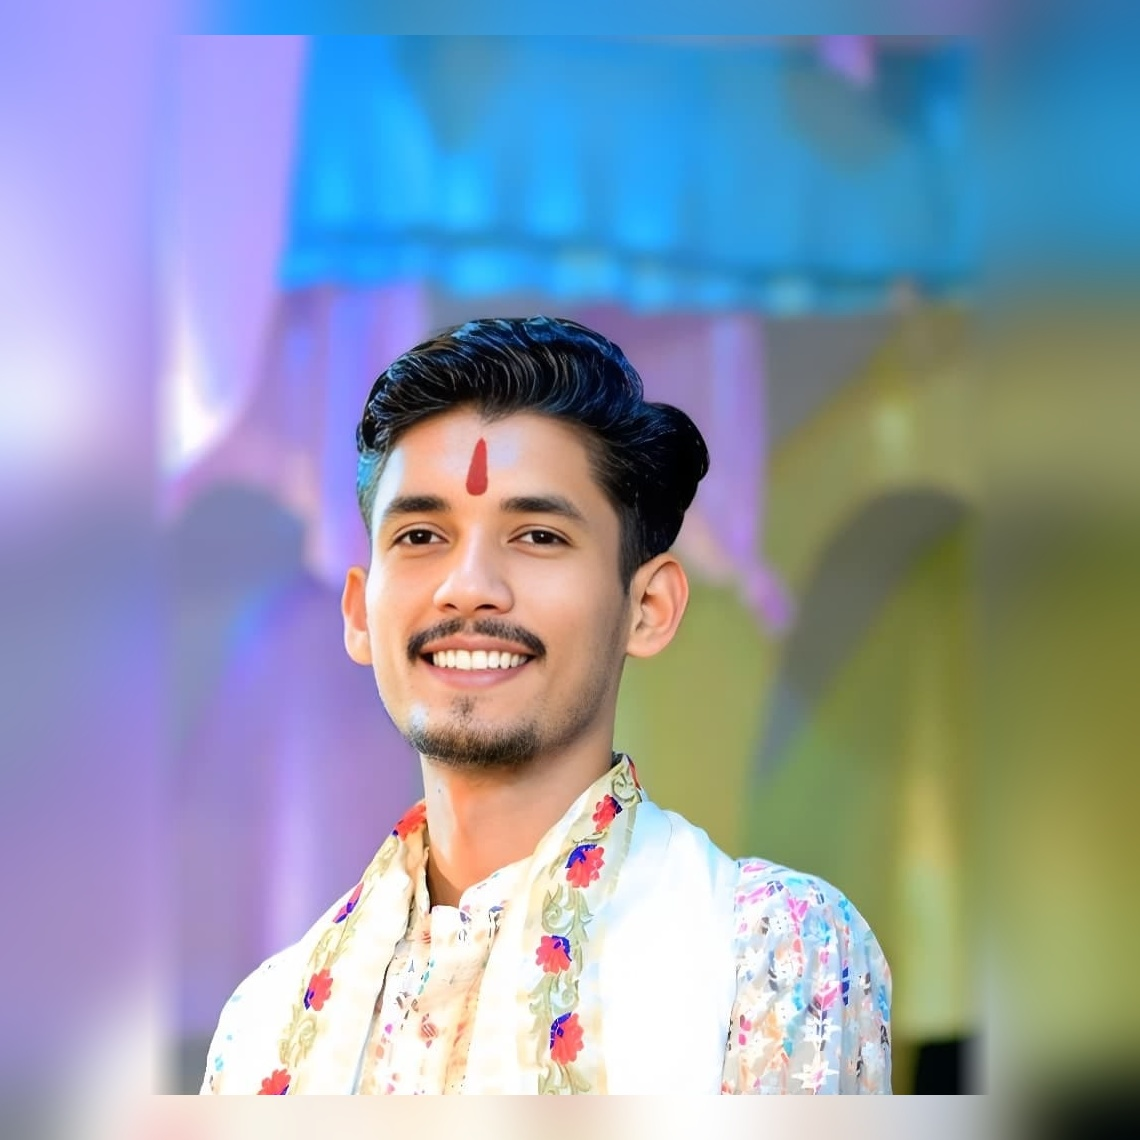
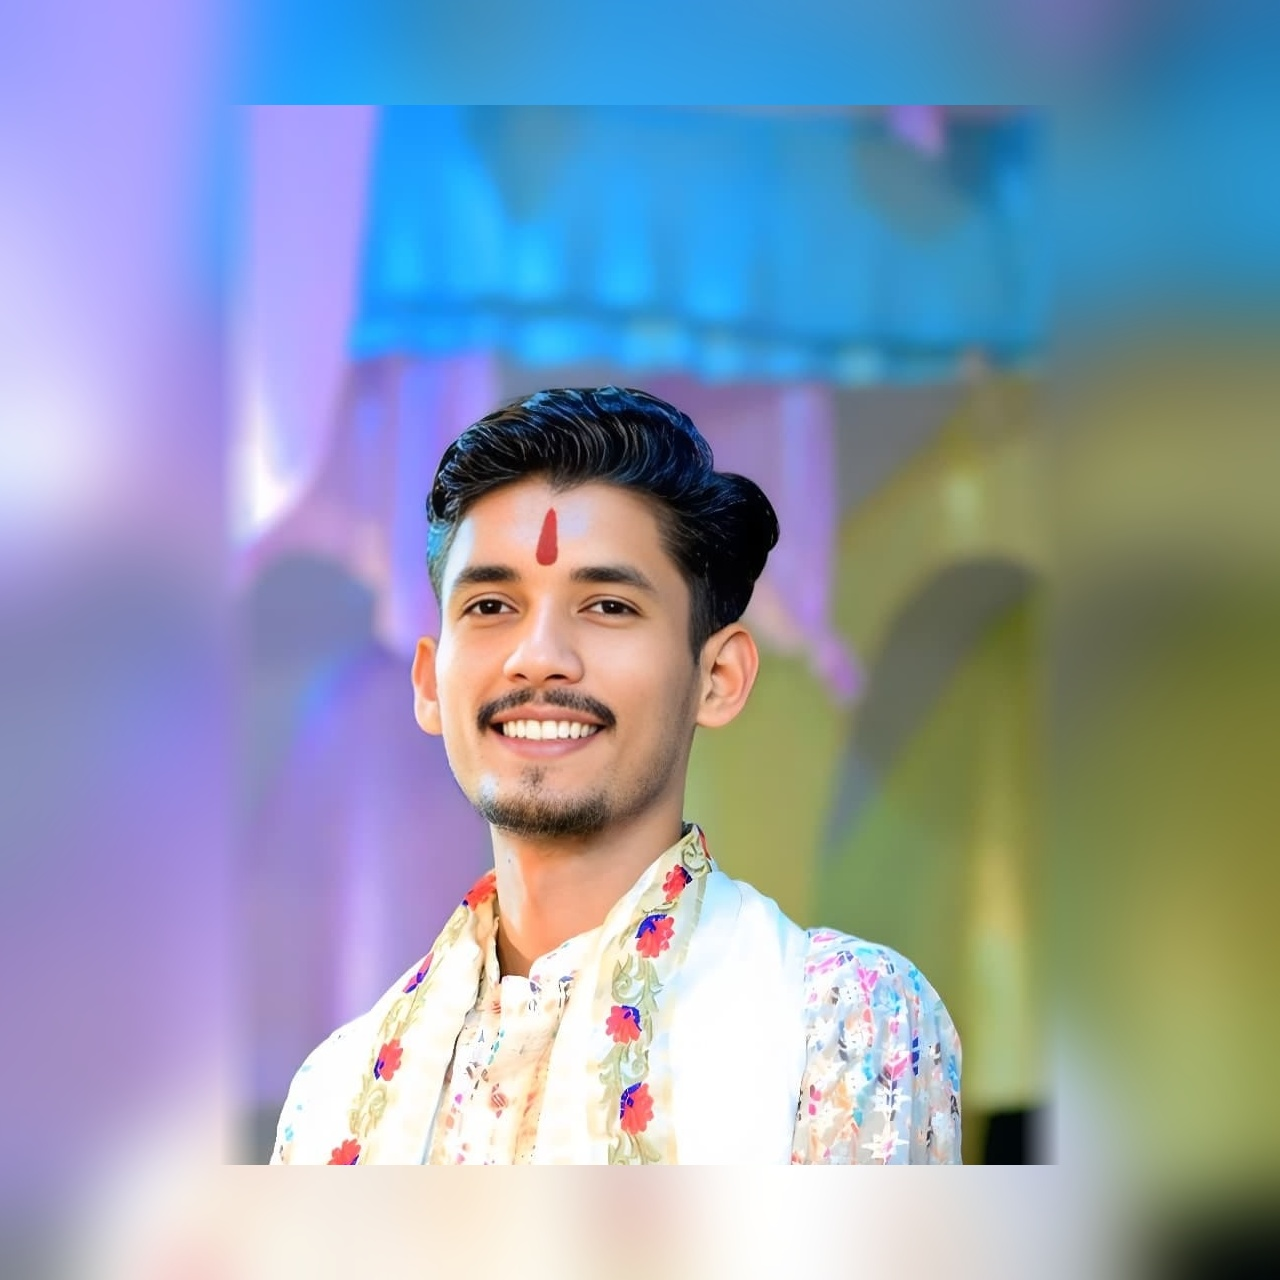
Show 100% full uncropped astrologer portrait with full shoulders and chest, and center Vedic Rashi Dial evenly on all 4 sides

diff --git a/static/css/style.css b/static/css/style.css
@@ -2563,16 +2563,16 @@ h1, h2, h3, h4, h5, h6 {
   display: flex;
   justify-content: center;
   align-items: center;
-  padding: 30px 15px;
+  padding: 40px 20px;
 }
 
 .hero-photo-frame {
   position: relative;
   display: inline-block;
-  width: 390px;
-  height: 390px;
+  width: 370px;
+  height: 370px;
   border-radius: 50%;
-  padding: 8px;
+  padding: 7px;
   background: linear-gradient(135deg, #FFFBEB 0%, #F59E0B 40%, #6366F1 80%, #EC4899 100%);
   box-shadow: 
     0 0 45px rgba(245, 158, 11, 0.4),
@@ -2590,10 +2590,10 @@ h1, h2, h3, h4, h5, h6 {
 /* Ambient Sacred Cosmic Halo */
 .hero-photo-halo {
   position: absolute;
-  inset: -24px;
+  inset: -28px;
   border-radius: 50%;
-  background: radial-gradient(circle at 50% 50%, rgba(245, 158, 11, 0.3) 0%, rgba(99, 102, 241, 0.18) 50%, transparent 75%);
-  filter: blur(20px);
+  background: radial-gradient(circle at 50% 50%, rgba(245, 158, 11, 0.35) 0%, rgba(99, 102, 241, 0.2) 50%, transparent 75%);
+  filter: blur(22px);
   pointer-events: none;
   animation: auraBreathe 4s ease-in-out infinite alternate;
   z-index: 0;
@@ -2604,17 +2604,20 @@ h1, h2, h3, h4, h5, h6 {
   100% { opacity: 1; transform: scale(1.04); filter: blur(24px); }
 }
 
-/* Authentic Vedic 12-Rashi Zodiac Astrolabe Dial Ring */
+/* Authentic Vedic 12-Rashi Zodiac Astrolabe Dial Ring (Concentric & Visible on All 4 Sides) */
 .hero-rashi-dial {
   position: absolute;
-  top: -46px;
-  left: -46px;
-  width: 482px;
-  height: 482px;
+  top: 50%;
+  left: 50%;
+  width: 470px;
+  height: 470px;
+  margin-top: -235px;
+  margin-left: -235px;
+  transform-origin: 235px 235px;
   pointer-events: none;
   z-index: 1;
   animation: rotateRashiDial 90s linear infinite;
-  filter: drop-shadow(0 0 10px rgba(245, 158, 11, 0.5));
+  filter: drop-shadow(0 0 12px rgba(245, 158, 11, 0.55));
 }
 
 @keyframes rotateRashiDial {
@@ -2677,13 +2680,13 @@ h1, h2, h3, h4, h5, h6 {
 }
 
 .hero-badge-right {
-  bottom: 18px;
-  right: -10px;
+  bottom: 15px;
+  right: -12px;
 }
 
 .hero-badge-left {
-  bottom: 75px;
-  left: -12px;
+  bottom: 65px;
+  left: -14px;
 }
 
 /* ── THEME TOGGLE BUTTON ── */
@@ -3492,18 +3495,19 @@ h1, h2, h3, h4, h5, h6 {
     border-radius: 50%;
   }
   .hero-rashi-dial {
-    width: 396px;
-    height: 396px;
-    top: -38px;
-    left: -38px;
+    width: 400px;
+    height: 400px;
+    margin-top: -200px;
+    margin-left: -200px;
+    transform-origin: 200px 200px;
   }
   .hero-badge-right {
     bottom: 12px;
-    right: -5px;
+    right: -8px;
   }
   .hero-badge-left {
-    bottom: 60px;
-    left: -8px;
+    bottom: 55px;
+    left: -10px;
   }
   .hero-photo-wrap { margin-top: 30px; }
   .hero-stats { grid-template-columns: repeat(2, 1fr); }
@@ -3515,10 +3519,11 @@ h1, h2, h3, h4, h5, h6 {
     border-radius: 50%;
   }
   .hero-rashi-dial {
-    width: 336px;
-    height: 336px;
-    top: -33px;
-    left: -33px;
+    width: 346px;
+    height: 346px;
+    margin-top: -173px;
+    margin-left: -173px;
+    transform-origin: 173px 173px;
   }
   .hero-photo-badge {
     font-size: 0.76rem;
@@ -3526,11 +3531,11 @@ h1, h2, h3, h4, h5, h6 {
   }
   .hero-badge-right {
     bottom: 6px;
-    right: -2px;
+    right: -4px;
   }
   .hero-badge-left {
-    bottom: 48px;
-    left: -4px;
+    bottom: 45px;
+    left: -6px;
   }
   .about-img-wrap { max-width: 100%; }
   .about-exp-badge { position: static; margin-top: 16px; display: inline-block; }

diff --git a/templates/core/home.html b/templates/core/home.html
@@ -50,9 +50,9 @@
         <div class="hero-photo-wrap">
           <div class="hero-photo-frame">
             <div class="hero-photo-halo"></div>
-            <img src="{% static 'img/vedic_rashi_dial.svg' %}" class="hero-rashi-dial" alt="Vedic 12-Rashi Chakra Dial">
+            <img src="{% static 'img/vedic_rashi_dial.svg' %}?v=2" class="hero-rashi-dial" alt="Vedic 12-Rashi Chakra Dial">
             <div class="hero-photo-box">
-              <img src="{% static 'img/astrologer_square.jpg' %}?v=1" alt="Pandit Gajendra Sharma - Vedic Astrologer">
+              <img src="{% static 'img/astrologer_square.jpg' %}?v=2" alt="Pandit Gajendra Sharma - Vedic Astrologer">
             </div>
             <div class="hero-photo-badge hero-badge-right">
               <i class="fa-solid fa-hand-holding-heart text-warning"></i>
